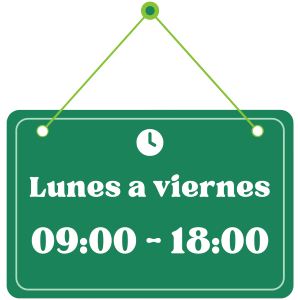
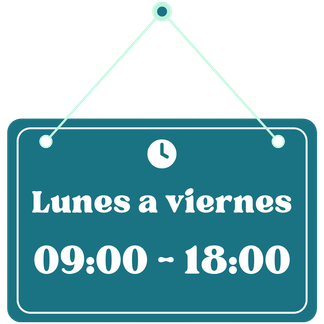
Optimización de imágenes

diff --git a/css/main.css b/css/main.css
@@ -59,8 +59,6 @@ ul, ol { list-style: none; }
 }
 
 #mobileThemeToggle .sun { fill: light-dark(#000, transparent); }
-
-header .virginiadevs-logo { filter: brightness(0) invert(1); }
 /* ----------- */
 
 /* HEADER & FOOTER */
@@ -268,9 +266,11 @@ main {
 
         & figure {
             width: 220px;
+            filter: drop-shadow(4px 2px 6px light-dark(var(--text-color2), var(--light-grey)));
 
             & img {
                 width: 100%;
+                margin-top: -5px;
             }
         }
     }

diff --git a/index.html b/index.html
@@ -29,7 +29,7 @@
             </button>
 
             <figure>
-                <img class="virginiadevs-logo" src="img/logo.webp" alt="Logo de VirginiaDevs">
+                <img class="virginiadevs-logo" src="img/logo-white.webp" alt="Logo de VirginiaDevs">
             </figure>
 
             <ul id="headerMenu">
